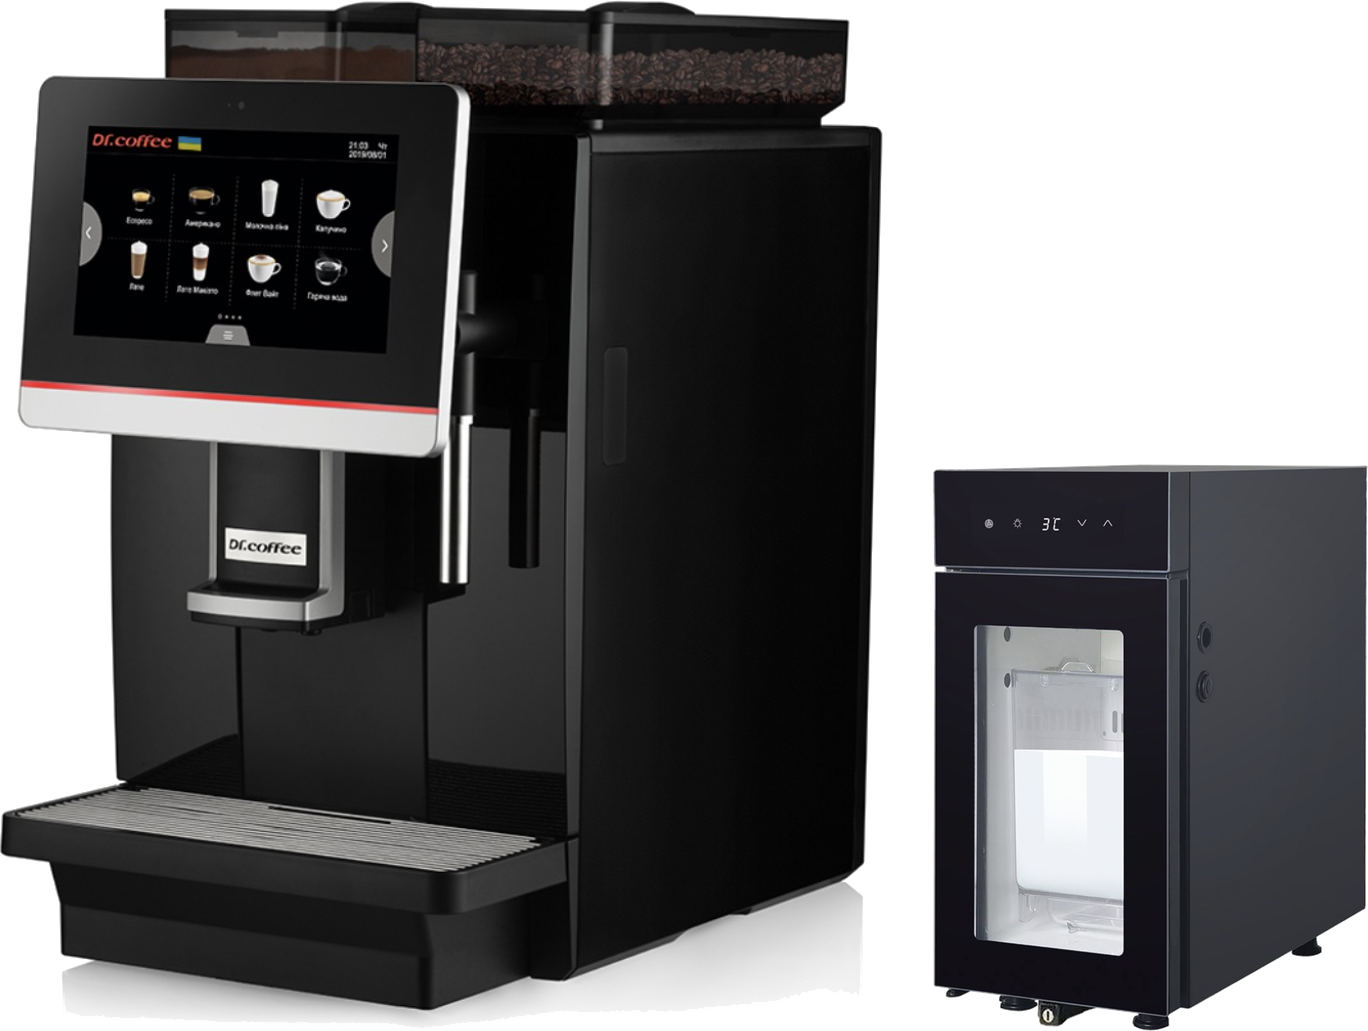
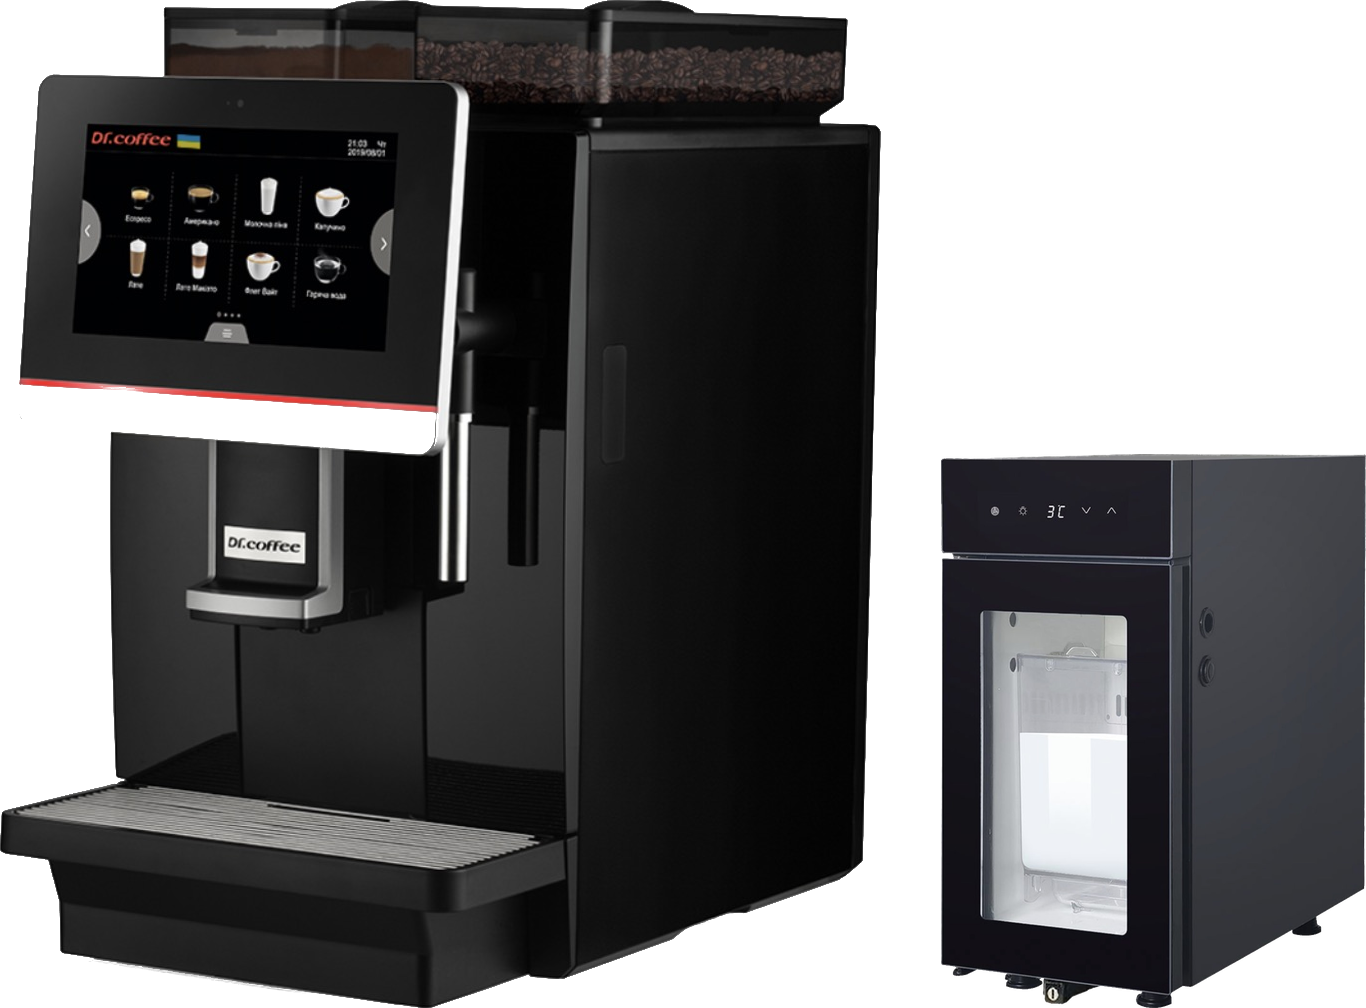
Fix leftover reflection and floor misalignment in Dr. Coffee composites
The background removal only stripped pure-white pixels, so the soft
studio reflection under each machine survived as a translucent grey
haze, and its extra bounding-box height threw off the bottom-alignment
against the fridge crop — the two ended up looking like they stood on
different floors. Reprocess both source photos with a border-connected
flood fill that also carries through the reflection (it's continuous
with the white backdrop, so it's safe to remove without touching
enclosed bright regions like the touchscreen), then recompute tight
crops and recompose so the machine and fridge share one baseline.
Also drop the now-unused single-photo Coffeebar Plus cutout and update
the callout coordinates for the corrected image geometry.

Claude-Session: https://claude.ai/code/session_01MUKCyPTyYMVNaSP63UTGSX

diff --git a/src/lib/machines.ts b/src/lib/machines.ts
@@ -68,14 +68,14 @@ export const MACHINES: Machine[] = [
     ],
     photo: {
       src: "/machines/dr-coffee-minibar-s-with-fridge.png",
-      aspectClassName: "aspect-[10/9]",
+      aspectClassName: "aspect-[1679/1239]",
       marginPct: 14,
       callouts: [
-        { x: 0.356, y: 0.104, label: "24–30 напоїв", side: "left" },
-        { x: 0.356, y: 0.254, label: "Простий екран", side: "left" },
-        { x: 0.363, y: 0.5, label: "Молочна піна", side: "left" },
-        { x: 0.622, y: 0.456, label: "Регульована температура", side: "right" },
-        { x: 0.63, y: 0.658, label: "Молоко в комплекті", side: "right" },
+        { x: 0.3, y: 0.06, label: "24–30 напоїв", side: "left" },
+        { x: 0.19, y: 0.2, label: "Простий екран", side: "left" },
+        { x: 0.2, y: 0.53, label: "Молочна піна", side: "left" },
+        { x: 0.745, y: 0.445, label: "Регульована температура", side: "right" },
+        { x: 0.73, y: 0.72, label: "Молоко в комплекті", side: "right" },
       ],
     },
   },
@@ -97,14 +97,14 @@ export const MACHINES: Machine[] = [
     ],
     photo: {
       src: "/machines/dr-coffee-coffeebar-plus-with-fridge.png",
-      aspectClassName: "aspect-[4/3]",
+      aspectClassName: "aspect-[683/504]",
       marginPct: 14,
       callouts: [
-        { x: 0.342, y: 0.104, label: "Металевий корпус", side: "left" },
-        { x: 0.262, y: 0.236, label: "24 напої", side: "left" },
-        { x: 0.277, y: 0.5, label: "Чашка за секунди", side: "left" },
-        { x: 0.68, y: 0.509, label: "Регульована температура", side: "right" },
-        { x: 0.687, y: 0.72, label: "Молоко в комплекті", side: "right" },
+        { x: 0.42, y: 0.05, label: "Металевий корпус", side: "left" },
+        { x: 0.15, y: 0.2, label: "24 напої", side: "left" },
+        { x: 0.2, y: 0.62, label: "Чашка за секунди", side: "left" },
+        { x: 0.79, y: 0.51, label: "Регульована температура", side: "right" },
+        { x: 0.79, y: 0.76, label: "Молоко в комплекті", side: "right" },
       ],
     },
   },
